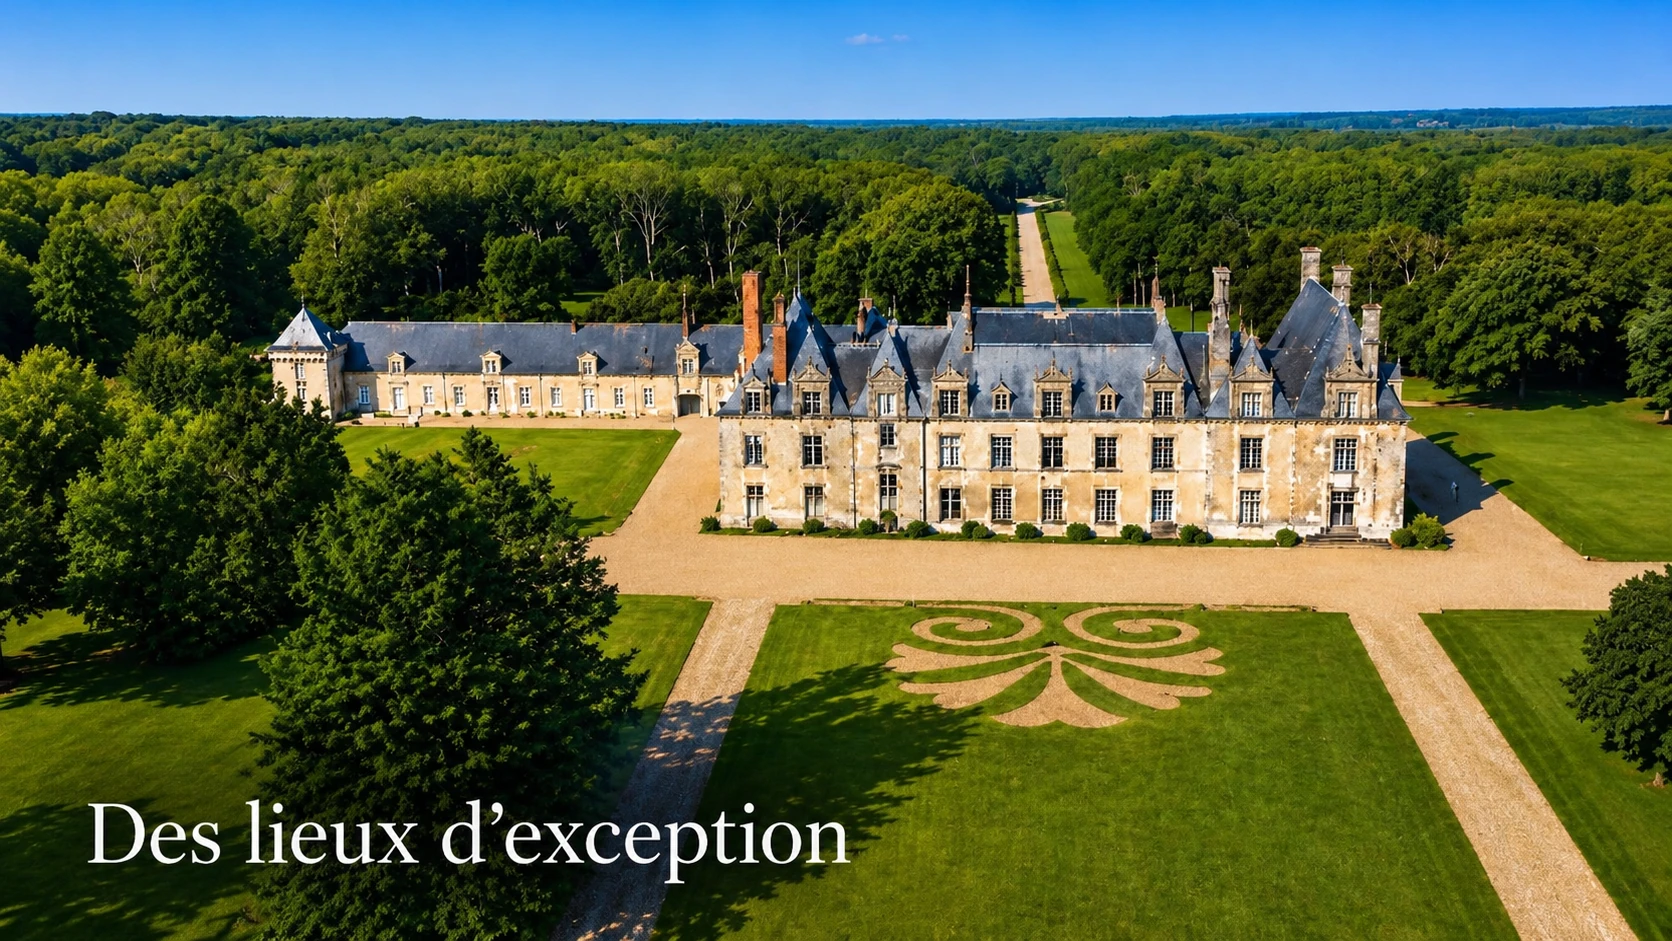
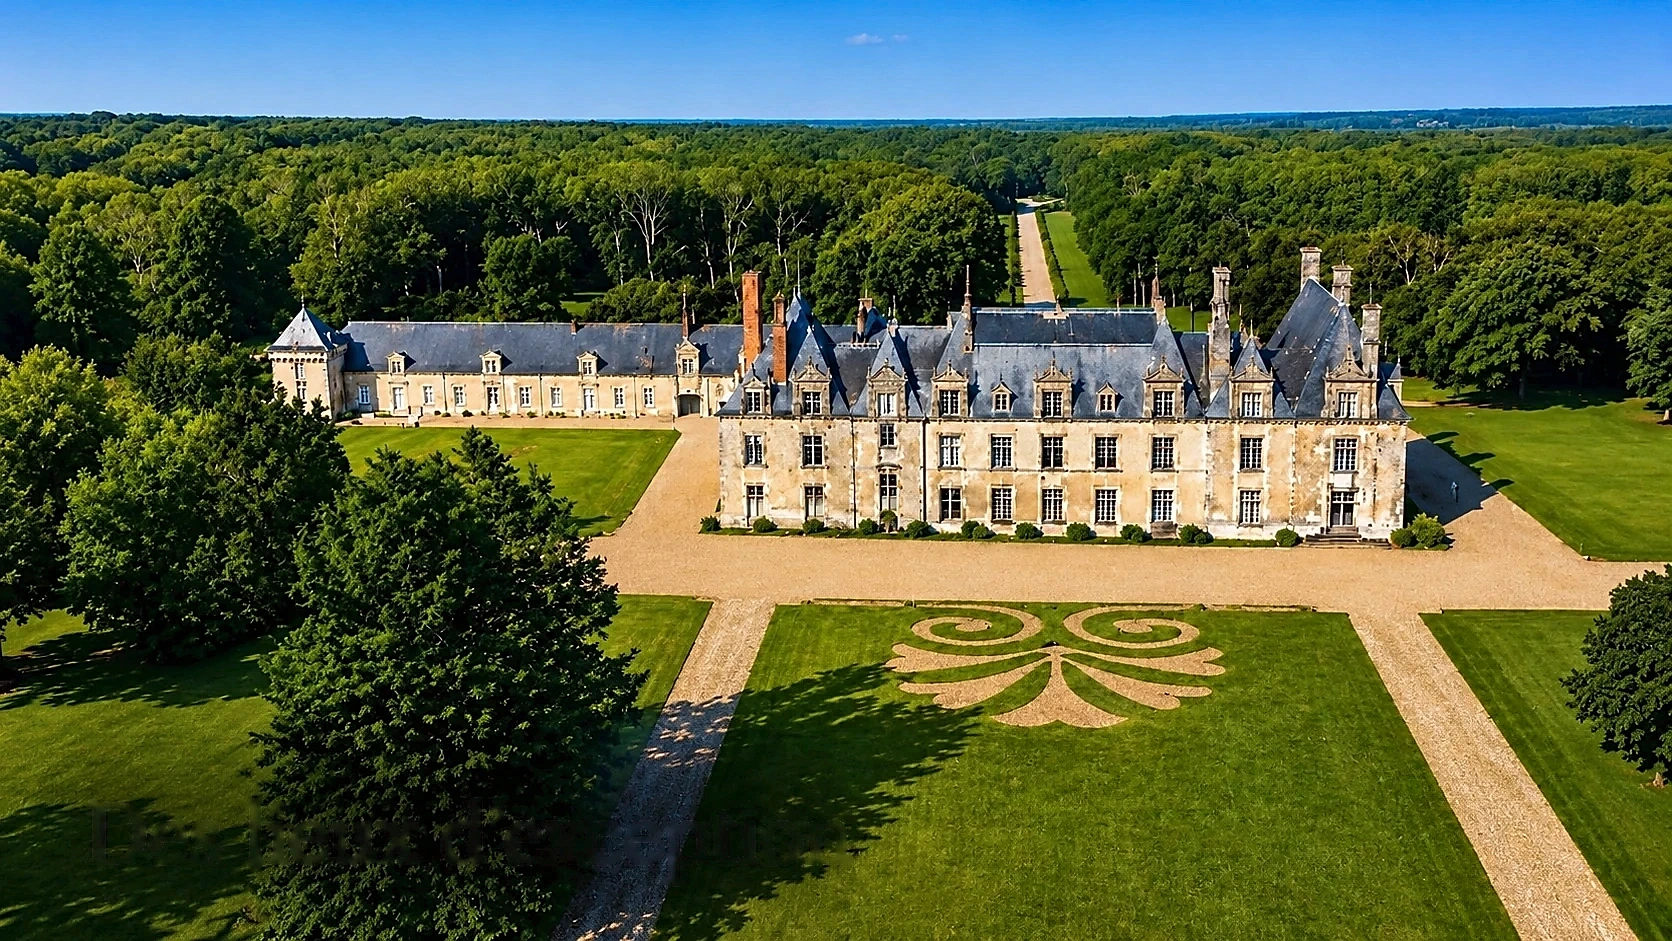
xx

diff --git a/ESPACE-PUBLIC/hello.js b/ESPACE-PUBLIC/hello.js
@@ -4,27 +4,33 @@
   const IMAGES_CARROUSEL_HELLO = [
     {
       src: "/OBJET/IMAG/CARROUSEL/PAGE-HELLO/IMAG_1.webp",
-      alt: "Parc plein air d'exception La Clé du Parc"
+      alt: "Lieux remarquables et parcs d'exception avec La Clé du Parc",
+      texte: "Des lieux d'exception"
     },
     {
       src: "/OBJET/IMAG/CARROUSEL/PAGE-HELLO/IMAG_2.webp",
-      alt: "Activité de loisir plein air avec coach La Clé du Parc"
+      alt: "Prendre soin de soi et de ses proches La Clé du Parc",
+      texte: "Prendre soin de soi"
     },
     {
       src: "/OBJET/IMAG/CARROUSEL/PAGE-HELLO/IMAG_3.webp",
-      alt: "Activité de loisir plein air en famille La Clé du Parc"
+      alt: "Se réunir en famille avec La Clé du Parc",
+      texte: "Se réunir en famille"
     },
     {
       src: "/OBJET/IMAG/CARROUSEL/PAGE-HELLO/IMAG_4.webp",
-      alt: "Activité de loisir plein air en duo couple La Clé du Parc"
+      alt: "Réunir ses amis avec La Clé du Parc",
+      texte: "Réunir ses amis"
     },
     {
       src: "/OBJET/IMAG/CARROUSEL/PAGE-HELLO/IMAG_5.webp",
-      alt: "Un parc près de chez vous La Clé du Parc"
+      alt: "Activités de loisir plein air avec La Clé du Parc",
+      texte: "Organiser son activité"
     },
     {
       src: "/OBJET/IMAG/CARROUSEL/PAGE-HELLO/IMAG_6.webp",
-      alt: "Des activités de loisir plein air pour tous La Clé du Parc"
+      alt: "Un parc près de chez soi avec La Clé du Parc",
+      texte: "Un parc près de chez vous ?"
     },
   ];
 
@@ -322,6 +328,22 @@
         }
 
         figure.appendChild(img);
+
+        // Titre éditorial superposé à l'image : six mots maximum.
+        // Le contenu est inséré comme texte, jamais comme HTML.
+        const motsTitre = String(image.texte || "").trim().split(/\s+/).filter(Boolean);
+        if (motsTitre.length > 6) {
+          console.warn("Carrousel Hello : titre limité à six mots pour l'image", index + 1);
+        }
+        const titre = motsTitre.slice(0, 6).join(" ");
+        if (titre) {
+          const legende = document.createElement("figcaption");
+          legende.className = "lcdp-box-carousel__overlay-title";
+          legende.textContent = titre;
+          figure.appendChild(legende);
+          figure.classList.add("lcdp-box-carousel__item--with-title");
+        }
+
         liste.appendChild(figure);
       });
     }

diff --git a/OBJET/BOX/01-box-carrousel.css b/OBJET/BOX/01-box-carrousel.css
@@ -2,11 +2,11 @@
   width: 100%;
   display: flex;
   flex-direction: column;
-  gap: 0;
+  gap: var(--lcdp-space-2);
 }
 
 .lcdp-box-carousel__title {
-  margin: 0 0 var(--lcdp-space-2);
+  margin: 0;
   font-size: clamp(26px, 6vw, 34px);
   line-height: 1.18;
   font-weight: 600;
@@ -105,13 +105,9 @@
   opacity: 0.75;
 }
 
-.lcdp-box-carousel > .lcdp-image-legend {
-  margin: 4px 0 0;
-}
-
 .lcdp-box-carousel__dots {
   min-height: 16px;
-  margin-top: 4px;
+  margin-top: var(--lcdp-space-1);
   display: flex;
   align-items: center;
   justify-content: center;
@@ -164,4 +160,59 @@
     width: 10px;
     height: 10px;
   }
+}
+/* TITRE SUR IMAGE — composant générique, utilisable sur toutes les pages.
+   Le texte est un figcaption dans la figure ; aucun texte n'est intégré à l'image.
+   Position de référence : bas gauche, avec marges adaptatives PC/mobile. */
+.lcdp-box-carousel__item--with-title::after {
+  content: "";
+  position: absolute;
+  inset: 42% 0 0;
+  z-index: 1;
+  pointer-events: none;
+  background: linear-gradient(
+    to bottom,
+    rgba(0, 0, 0, 0) 0%,
+    rgba(0, 0, 0, 0.12) 34%,
+    rgba(0, 0, 0, 0.56) 100%
+  );
+}
+
+.lcdp-box-carousel__overlay-title {
+  position: absolute;
+  z-index: 2;
+  left: clamp(16px, 5%, 76px);
+  bottom: clamp(18px, 6%, 64px);
+  width: calc(100% - 2 * clamp(16px, 5%, 76px));
+  max-width: 88%;
+  margin: 0;
+  color: #fff;
+  font-family: Georgia, "Times New Roman", serif;
+  font-size: clamp(27px, 5.8vw, 76px);
+  font-weight: 400;
+  line-height: 1.08;
+  letter-spacing: -0.025em;
+  text-align: left;
+  text-wrap: balance;
+  overflow-wrap: break-word;
+  text-shadow: 0 2px 10px rgba(0, 0, 0, 0.3);
+  pointer-events: none;
+}
+
+@media (max-width: 767px) {
+  .lcdp-box-carousel__overlay-title {
+    left: 5%;
+    bottom: 7%;
+    width: 90%;
+    max-width: 90%;
+    font-size: clamp(23px, 6.6vw, 46px);
+    line-height: 1.1;
+  }
+  .lcdp-box-carousel__item--with-title::after {
+    inset: 35% 0 0;
+  }
+}
+
+@media (prefers-reduced-motion: reduce) {
+  .lcdp-box-carousel__item { transition-duration: 0.01ms; }
 }
